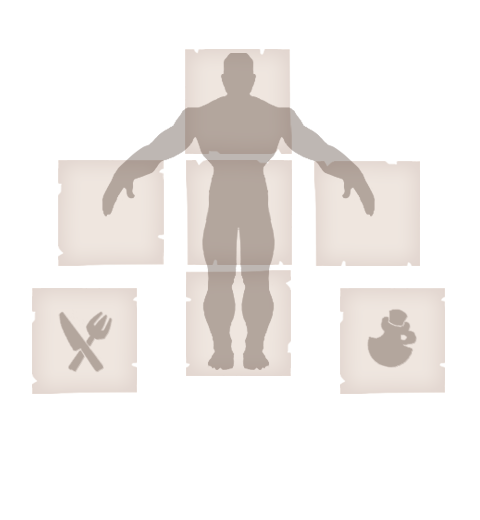
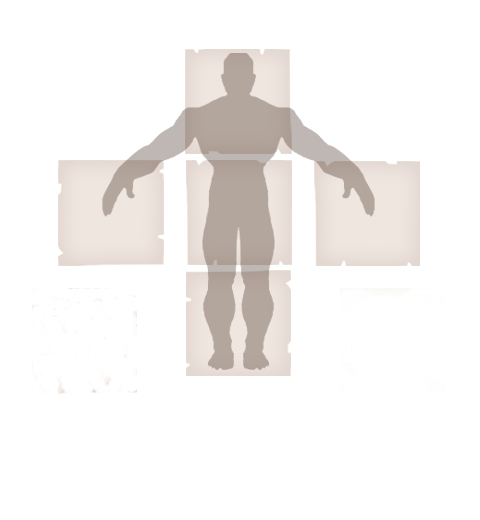
modal design

Changed region(s): [[0.6875, 0.5538, 0.9375, 0.7692], [0.0625, 0.5538, 0.3125, 0.7692]]

diff --git a/ajversh/static/css/includes/builds_list.scss b/ajversh/static/css/includes/builds_list.scss
@@ -1,0 +1,55 @@
+.builds{
+    width: 100%;
+    display: flex;
+
+    .left, .right{
+        width: 50%;
+    }
+
+    .item{
+        text-align: center;
+        margin-top: 2.5em;
+
+        .title{
+            font-size: 1.2em !important;
+        }
+
+        img{
+            width: 50px;
+        }
+
+        .border{
+            width: 60%;
+            border-bottom: 1px solid rgba(88, 88, 88, 0.521);
+            margin: auto;
+            padding-top: .4em;
+        }
+
+        a{
+            display: block;
+            font-size: 1.1em;
+            margin-bottom: .7em;
+            padding-top: .3em;
+        }
+
+        .link{
+            margin-bottom: .4em;
+            font-size: 1.1em;
+        }
+    }
+}
+
+.description{
+    display: flex;
+
+    .left{
+        background-image: url("/static/img/set.png");
+        background-repeat: no-repeat;
+        width: 1000px;
+        height: 520px;
+    }
+}
+
+.ui.modal.info, .ui.modal>.header{
+    background-color: rgba(112, 112, 112, 0.836);
+}

diff --git a/ajversh/static/js/modal.js b/ajversh/static/js/modal.js
@@ -3,6 +3,15 @@ $('.dropdown')
         action: 'hide'
     })
 ;
+
 $('.ui.basic.modal')
     .modal('attach events', '.quit', 'show')
 ;
+
+$('.ui.modal.info')
+    .modal('setting', 'closable', true)
+    .modal('attach events', '.link', 'show')
+;
+
+$('.ui.accordion')
+    .accordion();
